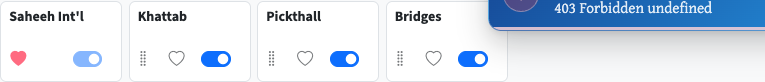
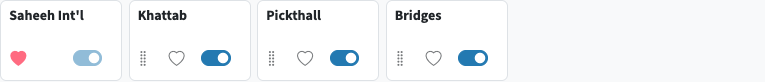
Explore Settings control treatments and align card switch colors

diff --git a/docs/design-system/library.html b/docs/design-system/library.html
@@ -12,7 +12,7 @@
 <main>
   <h1>Component library</h1>
   <p class="intro">Settings establishes the first patterns for navigation, preferences and feedback. Each entry records a control in use and the behavior another page can reuse.</p>
-  <nav aria-label="Library sections"><a href="#foundations">Foundations</a><a href="#navigation">Navigation</a><a href="#choices">Choices</a><a href="#feedback">Actions &amp; feedback</a><a href="#adoption">Adding a page</a></nav>
+  <nav aria-label="Library sections"><a href="#foundations">Foundations</a><a href="#navigation">Navigation</a><a href="#choices">Choices</a><a href="#control-options">Control options</a><a href="#feedback">Actions &amp; feedback</a><a href="#adoption">Adding a page</a></nav>
   <section id="foundations"><h2>Foundations</h2>
     <div class="grid">
       <article><h3>Interface type</h3><div class="type-sample">Reading &amp; listening</div><p>Source Sans 3 sets the interface rhythm. Page titles scale from 2 to 2.75 rem, group headings use 1.4 rem, and both use weight 650. Body text uses 1 rem with 1.5 line height. Use weight 600 for control labels.</p></article>
@@ -34,6 +34,28 @@
       <article><h3>View selector</h3><img src="settings/view.png" alt="Tile and Full view buttons"><p>Place mutually exclusive display modes in a compact button group near the collection. Expose the active mode with <code>aria-pressed</code> and retain it after reload.</p></article>
     </div>
   </section>
+  <section id="control-options"><h2>Control options</h2>
+    <p>Try each treatment with the same reciter preferences. Change the view, enable both reciters, or switch one off to try again.</p>
+    <div id="control-demos" class="grid"></div>
+    <template id="control-demo">
+      <article><h3></h3><p class="rationale"></p>
+        <div class="demo-panel">
+          <div class="demo-toolbar">
+            <button class="bulk" type="button">Enable all</button>
+            <div class="mode" role="group" aria-label="Reciter view">
+              <button type="button" data-mode="tile" aria-pressed="true">Tile</button>
+              <button type="button" data-mode="full" aria-pressed="false">Full</button>
+            </div>
+          </div>
+          <div class="reciters">
+            <label>Husari <input type="checkbox" role="switch" checked></label>
+            <label>Jalil <input type="checkbox" role="switch"></label>
+          </div>
+          <small role="status"></small>
+        </div>
+      </article>
+    </template>
+  </section>
   <section id="feedback"><h2>Actions &amp; feedback</h2>
     <div class="grid">
       <article><h3>Grouped edits &amp; advanced limits</h3><img src="settings/session.png" alt="Review session limits and the advanced session limits disclosure"><p>Show common fields first. Put category caps and queue order behind a named disclosure. A single save action applies the related fields together and reports the result near the form.</p></article>
@@ -45,4 +67,5 @@
     <p>The current examples come from <a href="../../views/settings.ejs">the Settings beta template</a>, its <a href="../../public/static/css/settings-beta.css">component styles</a>, and the <a href="../../public/static/js/settings-filter.js">local search implementation</a>. The catalog specimen uses sample account data. Use the <a href="index.html#controls">control comparisons</a> to find candidates as other pages are finalized.</p>
   </section>
 </main>
+<script src="control-options.js"></script>
 </body></html>

diff --git a/docs/design-system/library.css b/docs/design-system/library.css
@@ -27,3 +27,25 @@ article img { display: block; max-width: 100%; height: auto; }
 .palette .inset { padding-inline: .45rem; background: var(--ux-inset); border: 1px solid var(--ux-border); border-radius: .35rem; }
 dt { font-weight: 600; }
 dd { margin: 0 0 .6rem; }
+
+.demo-panel { padding: .8rem; border-radius: .5rem; background: var(--ux-inset); }
+.demo-toolbar, .mode { display: flex; align-items: center; }
+.demo-toolbar { justify-content: space-between; gap: .5rem; flex-wrap: wrap; margin-bottom: .8rem; }
+.demo-panel :is(button, select) { font: 600 .94rem/1.25 var(--ux-font-ui); min-height: 36px; padding: .4rem .65rem; border: 1px solid transparent; background: transparent; color: var(--ux-muted); cursor: pointer; }
+.demo-panel .bulk { color: var(--ux-accent); border-radius: .4rem; }
+.demo-panel :is(button, select, input):focus-visible { outline: var(--ux-focus-ring); outline-offset: 2px; }
+.demo-panel button:enabled:hover { text-decoration: underline; text-underline-offset: .15em; }
+.demo-panel button:disabled { opacity: .55; cursor: default; }
+.inset-mode .mode { padding: 3px; background: #e8ecef; border-radius: .55rem; }
+.inset-mode .mode button[aria-pressed="true"] { background: var(--ux-surface); border-radius: .4rem; color: var(--ux-accent); box-shadow: 0 1px 3px #18293726; }
+.tab-mode .mode button { border-bottom: 2px solid var(--ux-border); }
+.tab-mode .mode button[aria-pressed="true"] { border-bottom-color: var(--ux-accent); color: var(--ux-accent); }
+.tab-mode .bulk { background: color-mix(in srgb, var(--ux-accent) 10%, white); }
+.select-mode .bulk, .select-mode select { background: var(--ux-surface); border: 1px solid var(--ux-border); border-radius: .4rem; }
+.reciters { display: grid; grid-template-columns: repeat(2, minmax(0, 1fr)); gap: .45rem; }
+.reciters label { display: grid; gap: .65rem; padding: .6rem; border: 1px solid var(--ux-border); border-radius: .45rem; background: var(--ux-surface); font-weight: 600; cursor: pointer; }
+.reciters.full { grid-template-columns: 1fr; }
+.reciters.full label { display: flex; align-items: center; justify-content: space-between; }
+.reciters input { appearance: none; width: 2rem; height: 1.15rem; border: 1px solid var(--ux-muted); border-radius: 1rem; margin: 0; background: radial-gradient(circle at .54rem center, var(--ux-muted) .35rem, transparent .38rem); cursor: pointer; }
+.reciters input:checked { border-color: var(--ux-accent); background: radial-gradient(circle at calc(100% - .54rem) center, white .35rem, transparent .38rem) var(--ux-accent); }
+.demo-panel small { display: block; color: var(--ux-muted); margin-top: .4rem; }

diff --git a/docs/design-system/control-options.js b/docs/design-system/control-options.js
@@ -1,0 +1,45 @@
+const treatments = [
+  ['inset-mode', 'Inset selector + text action', 'A white selected segment sits on a quiet track. “Enable all” reads as a lightweight action beside it.'],
+  ['tab-mode', 'Underline tabs + tinted button', 'An underline marks the active view. A soft blue fill makes the bulk action easier to spot.'],
+  ['select-mode', 'View menu + outlined button', 'A compact menu shows the current view. A thin border gives the bulk action a clear target.']
+];
+
+for (const [style, title, description] of treatments) {
+  const demo = document.querySelector('#control-demo').content.firstElementChild.cloneNode(true);
+  demo.className = style;
+  demo.querySelector('h3').textContent = title;
+  demo.querySelector('.rationale').textContent = description;
+  const bulk = demo.querySelector('.bulk');
+  const switches = [...demo.querySelectorAll('[role="switch"]')];
+  const mode = demo.querySelector('.mode');
+  function setView(value) {
+    demo.querySelector('.reciters').classList.toggle('full', value === 'full');
+    for (const button of mode.querySelectorAll('button')) {
+      button.setAttribute('aria-pressed', String(value === button.dataset.mode));
+    }
+  }
+  if (style === 'select-mode') {
+    const select = document.createElement('select');
+    select.setAttribute('aria-label', 'Reciter view');
+    select.add(new Option('Tile view', 'tile'));
+    select.add(new Option('Full view', 'full'));
+    select.addEventListener('change', () => setView(select.value));
+    mode.replaceChildren(select);
+  } else {
+    for (const button of mode.querySelectorAll('button')) {
+      button.addEventListener('click', () => setView(button.dataset.mode));
+    }
+  }
+  function updateCount() {
+    const enabled = switches.filter(input => input.checked).length;
+    bulk.disabled = enabled === switches.length;
+    demo.querySelector('[role="status"]').textContent = enabled + ' of ' + switches.length + ' enabled';
+  }
+  bulk.addEventListener('click', () => {
+    switches.forEach(input => { input.checked = true; });
+    updateCount();
+  });
+  switches.forEach(input => input.addEventListener('change', updateCount));
+  updateCount();
+  document.querySelector('#control-demos').append(demo);
+}

diff --git a/public/static/css/settings-beta.css b/public/static/css/settings-beta.css
@@ -104,3 +104,8 @@
 .settings-filter-status { font-size: .85rem; margin: .25rem 0 0; color: var(--ux-muted); }
 .settings-filter-status:empty { margin: 0; }
 .settings-beta .settings-filter-miss, .settings-beta-index a[hidden] { display: none !important; }
+
+.settings-beta :is(#settings-reciter-list, #settings-translation-list, #settings-tafsir-list) .form-check-input:checked {
+  background-color: var(--ux-accent);
+  border-color: var(--ux-accent);
+}
